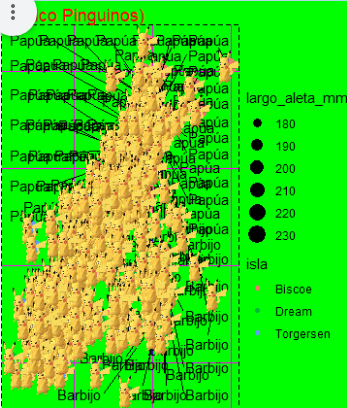
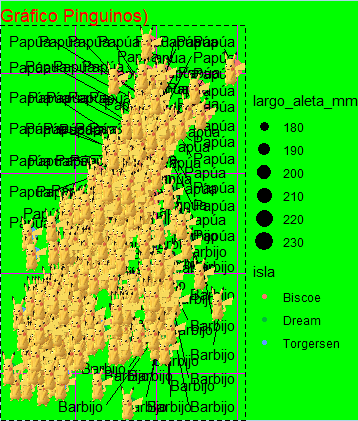
Update HTML and pics

diff --git a/docs/cohorte2021.html b/docs/cohorte2021.html
@@ -283,8 +283,8 @@ $(document).ready(function () {
 <div id="trabajos-finales" class="section level2">
 <h2>Trabajos finales</h2>
 <p>Trabajos finales utilizando Tableau o RMarkdown y ggplot2.</p>
-<div id="htmlwidget-bce8061ad18ca198f4e7" style="width:100%;height:auto;" class="datatables html-widget"></div>
-<script type="application/json" data-for="htmlwidget-bce8061ad18ca198f4e7">{"x":{"filter":"none","data":[["1","2","3","4","5","6","7","8","9","10","11","12","13","14"],["Empleo y Género (Banco Mundial)","Encuesta Permanente de Hogares","Encuesta Permanente de Hogares","Encuesta Nacional de Hogares","Exportaciones certificadas de soja SENASA","Programa Punto Digital","Monitor de vacunación COVID-19 en la ciudad de Corrientes","COVID-19 en CABA","COVID-19 - Chubut","Estimaciones Agrícolas del Ministerio de agricultura, ganadería y pesca","Ecobicis Buenos Aires","Hablemos de Todo","Contratos de alquiler del estado","Vinos"],["<a href=https://data-viz-r.netlify.app/>https://data-viz-r.netlify.app/<\/a>","<a href=https://ephybrechas.netlify.app/>https://ephybrechas.netlify.app/<\/a>","<a href=https://ingresos-genero-desigualdades.netlify.app/>https://ingresos-genero-desigualdades.netlify.app/<\/a>","<a href=https://trabajovisualizacion.netlify.app/>https://trabajovisualizacion.netlify.app/<\/a>","<a href=https://vibrant-wozniak-6e07cd.netlify.app/>https://vibrant-wozniak-6e07cd.netlify.app/<\/a>","<a href=https://public.tableau.com/app/profile/ana.clara.suiffet/viz/ResumenPuntosDigitales/ResumenPuntosDigitales?publish=yes>https://public.tableau.com/app/profile/ana.clara.suiffet/viz/ResumenPuntosDigitales/ResumenPuntosDigitales?publish=yes<\/a>","<a href=https://public.tableau.com/views/Trabajopracticofinalvisualizacion/MonitordevacunacinporCovid-19enlaCiudaddeCorrientes?:language=en-US&publish=yes&:display_count=n&:origin=viz_share_link>https://public.tableau.com/views/Trabajopracticofinalvisualizacion/MonitordevacunacinporCovid-19enlaCiudaddeCorrientes?:language=en-US&publish=yes&:display_count=n&:origin=viz_share_link<\/a>","<a href=https://tp-visualizacion-lindenboim-lucena.netlify.app/>https://tp-visualizacion-lindenboim-lucena.netlify.app/<\/a>","<a href=https://diplounab-chubut.netlify.app/>https://diplounab-chubut.netlify.app/<\/a>","<a href=https://agitated-easley-c144bb.netlify.app/>https://agitated-easley-c144bb.netlify.app/<\/a>","<a href=https://ecobicibuenosaires.netlify.app/>https://ecobicibuenosaires.netlify.app/<\/a>","<a href=https://public.tableau.com/app/profile/nicolas7443/viz/HDTNicolsNatali/Dashboard1?publish=yes>https://public.tableau.com/app/profile/nicolas7443/viz/HDTNicolsNatali/Dashboard1?publish=yes<\/a>","<a href=https://public.tableau.com/views/TPFINALVISUALIZACIONES/VISUALIZACIONES?:language=es-ES&publish=yes&:display_count=n&:origin=viz_share_link>https://public.tableau.com/views/TPFINALVISUALIZACIONES/VISUALIZACIONES?:language=es-ES&publish=yes&:display_count=n&:origin=viz_share_link<\/a>","<a href=https://public.tableau.com/app/profile/edgardosandoval/viz/VinosSand/Dashboard1>https://public.tableau.com/app/profile/edgardosandoval/viz/VinosSand/Dashboard1<\/a>"],["Couto, Aramburu, Araujo","Juan Videla y Juan Pablo Costa","Nicole Moscovich","Marcela Almeida","Alexander Sothmann,Luciano Tincani, Sara Reidel, Pamela Sarco","Ana Clara Suiffet","Bianca Vallejos\n","Erika D. Lucena, Irene L. Lindenboim","Federico Santoro","Yanil Hepp","Marcelo Perazzo - Paula D’Alessandro","Nicolás Natali","Noelia Andrada","Edgardo Sandoval"]],"container":"<table class=\"display\">\n  <thead>\n    <tr>\n      <th> <\/th>\n      <th>Base de datos seleccionada<\/th>\n      <th>Link al trabajo final<\/th>\n      <th>Autores/as<\/th>\n    <\/tr>\n  <\/thead>\n<\/table>","options":{"order":[],"autoWidth":false,"orderClasses":false,"columnDefs":[{"orderable":false,"targets":0}]}},"evals":[],"jsHooks":[]}</script>
+<div id="htmlwidget-3c5a63f00464b9a23172" style="width:100%;height:auto;" class="datatables html-widget"></div>
+<script type="application/json" data-for="htmlwidget-3c5a63f00464b9a23172">{"x":{"filter":"none","data":[["1","2","3","4","5","6","7","8","9","10","11","12","13","14"],["Empleo y Género (Banco Mundial)","Encuesta Permanente de Hogares","Encuesta Permanente de Hogares","Encuesta Nacional de Hogares","Exportaciones certificadas de soja SENASA","Programa Punto Digital","Monitor de vacunación COVID-19 en la ciudad de Corrientes","COVID-19 en CABA","COVID-19 - Chubut","Estimaciones Agrícolas del Ministerio de agricultura, ganadería y pesca","Ecobicis Buenos Aires","Hablemos de Todo","Contratos de alquiler del estado","Vinos"],["<a href=https://data-viz-r.netlify.app/>https://data-viz-r.netlify.app/<\/a>","<a href=https://ephybrechas.netlify.app/>https://ephybrechas.netlify.app/<\/a>","<a href=https://ingresos-genero-desigualdades.netlify.app/>https://ingresos-genero-desigualdades.netlify.app/<\/a>","<a href=https://trabajovisualizacion.netlify.app/>https://trabajovisualizacion.netlify.app/<\/a>","<a href=https://vibrant-wozniak-6e07cd.netlify.app/>https://vibrant-wozniak-6e07cd.netlify.app/<\/a>","<a href=https://public.tableau.com/app/profile/ana.clara.suiffet/viz/ResumenPuntosDigitales/ResumenPuntosDigitales?publish=yes>https://public.tableau.com/app/profile/ana.clara.suiffet/viz/ResumenPuntosDigitales/ResumenPuntosDigitales?publish=yes<\/a>","<a href=https://public.tableau.com/views/Trabajopracticofinalvisualizacion/MonitordevacunacinporCovid-19enlaCiudaddeCorrientes?:language=en-US&publish=yes&:display_count=n&:origin=viz_share_link>https://public.tableau.com/views/Trabajopracticofinalvisualizacion/MonitordevacunacinporCovid-19enlaCiudaddeCorrientes?:language=en-US&publish=yes&:display_count=n&:origin=viz_share_link<\/a>","<a href=https://tp-visualizacion-lindenboim-lucena.netlify.app/>https://tp-visualizacion-lindenboim-lucena.netlify.app/<\/a>","<a href=https://diplounab-chubut.netlify.app/>https://diplounab-chubut.netlify.app/<\/a>","<a href=https://agitated-easley-c144bb.netlify.app/>https://agitated-easley-c144bb.netlify.app/<\/a>","<a href=https://ecobicibuenosaires.netlify.app/>https://ecobicibuenosaires.netlify.app/<\/a>","<a href=https://public.tableau.com/app/profile/nicolas7443/viz/HDTNicolsNatali/Dashboard1?publish=yes>https://public.tableau.com/app/profile/nicolas7443/viz/HDTNicolsNatali/Dashboard1?publish=yes<\/a>","<a href=https://public.tableau.com/views/TPFINALVISUALIZACIONES/VISUALIZACIONES?:language=es-ES&publish=yes&:display_count=n&:origin=viz_share_link>https://public.tableau.com/views/TPFINALVISUALIZACIONES/VISUALIZACIONES?:language=es-ES&publish=yes&:display_count=n&:origin=viz_share_link<\/a>","<a href=https://public.tableau.com/app/profile/edgardosandoval/viz/VinosSand/Dashboard1>https://public.tableau.com/app/profile/edgardosandoval/viz/VinosSand/Dashboard1<\/a>"],["Couto, Aramburu, Araujo","Juan Videla y Juan Pablo Costa","Nicole Moscovich","Marcela Almeida","Alexander Sothmann,Luciano Tincani, Sara Reidel, Pamela Sarco","Ana Clara Suiffet","Bianca Vallejos\n","Erika D. Lucena, Irene L. Lindenboim","Federico Santoro","Yanil Hepp","Marcelo Perazzo - Paula D’Alessandro","Nicolás Natali","Noelia Andrada","Edgardo Sandoval"]],"container":"<table class=\"display\">\n  <thead>\n    <tr>\n      <th> <\/th>\n      <th>Base de datos seleccionada<\/th>\n      <th>Link al trabajo final<\/th>\n      <th>Autores/as<\/th>\n    <\/tr>\n  <\/thead>\n<\/table>","options":{"order":[],"autoWidth":false,"orderClasses":false,"columnDefs":[{"orderable":false,"targets":0}]}},"evals":[],"jsHooks":[]}</script>
 </div>
 <div id="concurso-el-gráfico-más-feo-por-orden-alfabético" class="section level2">
 <h2>Concurso el gráfico más feo (por orden alfabético)</h2>
@@ -760,37 +760,272 @@ ggplot(df, aes(x = &quot;&quot;, y = Formacion, fill = Proporcion)) +
 <p><img src="plots_2021/Manuel_Emilio_Lopez_plot2.png" /></p>
 </div>
 </div>
-<div id="mercedes-araujo" class="section level3">
-<h3>Mercedes Araujo</h3>
-<p><img src="plots_2021/Mercedes_Araujo_plot.png" /></p>
-</div>
 <div id="marcela-almeida" class="section level3">
 <h3>Marcela Almeida</h3>
-<p><img src="plots_2021/Luciano_Pamela_plot.png" /></p>
+<pre class="r"><code>Gastos__quintil_uno &lt;- base_hogares %&gt;%
+  filter(qinth_t==1)%&gt;%
+    select(gc_01,gc_02, gc_03, gc_04, gc_05, gc_06, gc_07, gc_08, gc_09, gc_10, gc_11, gc_12,pondera, qinth_t)%&gt;%
+  summarise(Alimentos=round( sum(gc_01*pondera)/sum(pondera),1),Tabaco= round( sum(gc_02*pondera)/sum(pondera),1),Ropa=round( sum(gc_03*pondera)/sum(pondera),1),Vivienda=round(sum(gc_04*pondera)/sum(pondera),1), Equipamiento=round(sum(gc_05*pondera)/sum(pondera),1), Salud=round( sum(gc_06*pondera)/sum(pondera),1), Transporte=round( sum(gc_07*pondera)/sum(pondera),1), Comunicacion=round( sum(gc_08*pondera)/sum(pondera),1), Recreacion=round( sum(gc_09*pondera)/sum(pondera),1), Educacion=round( sum(gc_10*pondera)/sum(pondera),1), Restaurantes=round( sum(gc_11*pondera)/sum(pondera),1), Otros=round( sum(gc_12*pondera)/sum(pondera),1))%&gt;%
+  pivot_longer(cols=c(Alimentos, Tabaco,Ropa, Vivienda, Equipamiento, Salud, Transporte, Comunicacion, Recreacion, Educacion, Restaurantes, Otros ),names_to=&quot;Gasto&quot;, values_to=&quot;valor&quot;)
+
+
+
+Gastos_quintil_uno&lt;-Gastos__quintil_uno%&gt;%
+  mutate(porcentaje=(valor/11322.9)*100)
+
+Gastos_quintil_uno
+
+torta_fea&lt;-ggplot(data=Gastos_quintil_uno, aes(x=&quot;&quot;, y=valor, fill=Gasto))+
+  geom_bar(stat=&quot;identity&quot;)+
+    labs(title=&quot;Estructura de gasto Quintil 1&quot;, caption=&quot;Siempre puede ser más feo&quot;)+
+  geom_text(aes(label=paste0(round(porcentaje,1),&quot;%&quot;)),
+            position=position_stack(vjust=0.5))+
+  coord_polar(&quot;y&quot;)+
+    theme_void()
+  
+torta_fea</code></pre>
+<p><img src="plots_2021/Marcela_Almeida_plot.png" /></p>
+<div id="gráfico-extra-1" class="section level4">
+<h4>Gráfico extra</h4>
+<pre class="r"><code># Siempre puede ser más feo... pero no es ggplot
+
+pie3D(Gastos_quintil_uno$porcentaje)</code></pre>
+<p><img src="plots_2021/Marcela_Almeida_plot2.png" /></p>
+</div>
 </div>
 <div id="marcelo-perazzo" class="section level3">
 <h3>Marcelo Perazzo</h3>
+<pre class="r"><code>library(ggplot2)
+library(tidyverse)
+library(dplyr)
+remotes::install_github(&quot;cienciadedatos/datos&quot;)
+pinguinos=datos::pinguinos
+
+pinguinos %&gt;%
+    remove_missing() %&gt;%
+    ggplot(aes(x = especie, y = masa_corporal_g
+          )) +
+    geom_boxplot(fill=&quot;#FF00FF&quot;, color=&quot;#FF00FF&quot;) +
+  
+  geom_jitter(fill=&quot;#33FF41&quot;,color=&quot;#33FF41&quot;) +
+   
+  
+  theme_classic()+
+  theme(panel.grid.major = element_line(color = &quot;#FF00FF&quot;,linetype=&quot;dotted&quot;,size = 2),
+        plot.title = element_text(face = &quot;bold.italic&quot;, size = 16,color = &quot;#33FF41&quot;,hjust = 1,angle = -180),
+        plot.subtitle = element_text(face = &quot;bold&quot;, size = 14,color = &quot;#20E7DA&quot;,hjust = 1,angle = -180),
+        
+        axis.text = element_text(color = &quot;#33FF41&quot;, angle = -180),
+        axis.title.x = element_text(color =&quot;#20E7DA&quot;,angle = 50 ),
+        axis.title.y = element_text(color =&quot;#33FF41&quot;,size = 7,angle = -70 ),
+        plot.background = element_rect(fill=&quot;orange&quot;,color =  &quot;#7E20E7&quot;, size = 4,linetype = &quot;twodash&quot;),
+        
+    
+  )+
+    
+     labs(x = &quot;Especies&quot;, 
+           y = &quot;Masa Corporal (en g)&quot;,
+          title = &quot;El Gráfico más feo&quot;,tag = &quot;MP&quot;, 
+          subtitle = &quot;Por lo menos lo intentamos!!&quot;,
+          caption = &quot;Fuente: paquete Datos, dataset pinguinos&quot;
+          )</code></pre>
 <p><img src="plots_2021/marcelo_pelazzo_plot.png" /></p>
-</div>
-<div id="martina-pesce" class="section level3">
-<h3>Martina Pesce</h3>
-<p><img src="plots_2021/Martina_Pesce_plot.png" /></p>
 </div>
 <div id="martin-saralegui" class="section level3">
 <h3>Martin Saralegui</h3>
-<p><img src="plots_2021/Martin_Saralegui_plot.png" /></p>
+<pre class="r"><code>library(datos)
+library(ggplot2)
+library(dplyr)
+library(tidyverse)
+
+pinguinos &lt;- datos::pinguinos
+
+ggplot(pinguinos, aes(largo_pico_mm, largo_aleta_mm))+
+  geom_point(aes (color= especie, size = masa_corporal_g))+
+  geom_text(aes(label = sexo, size= 1))+
+  geom_smooth(method = &quot;loess&quot;, aes(color= especie))+
+  annotate(&#39;text&#39;, x = 45, y = 200, label = &quot;Diome&quot;, fontface = &quot;bold&quot;, size = 10)+
+  geom_curve(aes(x= 45, y= 200, xend= 50, yend = 220),
+             arrow = arrow(angle = 30, length = unit(0.25,&quot;inch&quot;),
+                           ends=&quot;first&quot;, 
+                           type= &quot;closed&quot;),
+             size = 1,
+             color = &quot;yellow&quot;,
+             curvature = 0.2)+
+  geom_segment(aes(x= 45, y= 200, xend= 40, yend = 175),
+             arrow = arrow(angle = 30, length = unit(0.25,&quot;inch&quot;),
+                           ends=&quot;first&quot;, 
+                           type= &quot;closed&quot;),
+             size = 1,
+             color = &quot;darkred&quot;,
+             curvature = 0.2)+
+  geom_density_2d(aes(color= especie), size = 1)</code></pre>
+<p><img src="plots_2021/Martin_Saralegui_plot.jpg" /></p>
+</div>
+<div id="martina-pesce" class="section level3">
+<h3>Martina Pesce</h3>
+<pre class="r"><code>library(tidyverse)
+library(here)
+library(ggimage)
+library(ggplot2)
+library(ggrepel)
+pinguinos&lt;-datos::pinguinos
+
+ggplot(pinguinos, aes(largo_pico_mm, masa_corporal_g)) + 
+  geom_point(aes(colour = isla, size = largo_aleta_mm)) +
+  geom_text_repel(aes(label=ifelse((masa_corporal_g &gt;= 5000 |largo_pico_mm&gt; 50), as.character(especie),&#39;&#39;)), min.segment.length = 0, seed = 42, box.padding = 0.5)+
+  theme(legend.position = &quot;none&quot;)+
+  theme_void()+
+  theme(plot.background = element_rect(fill = &quot;green&quot;, colour = &quot;lightblue&quot;))+
+  theme(panel.border = element_rect(linetype = &quot;dashed&quot;, fill = &quot;NA&quot;))+
+  theme(panel.grid.major = element_line(colour = &quot;magenta&quot;))+
+  theme(plot.title = element_text(color = &quot;red&quot;))+
+  labs(title=&quot;Gráfico Pinguinos)&quot;,
+        x =&quot;largo del pico en mm&quot;, y = &quot;masa corporal g&quot;)+
+geom_pokemon(aes(image= &#39;pikachu&#39;), size=.1)</code></pre>
+<p><img src="plots_2021/Martina_Pesce_plot.png" /></p>
+</div>
+<div id="mercedes-araujo" class="section level3">
+<h3>Mercedes Araujo</h3>
+<pre class="r"><code># Base de datos de alquileres.
+
+unique(datos_alquileres$operation_type)
+Datos&lt;-datos_alquileres %&gt;%
+  filter(operation_type == &quot;Alquiler&quot; ) %&gt;% 
+  filter(l2 == &quot;Capital Federal&quot;) %&gt;% 
+  filter(price &lt; 100000 ) %&gt;% 
+  filter(surface_total &lt; 15000 ) %&gt;% 
+  filter(surface_covered &lt; 2000 ) %&gt;% 
+  filter(start_date &gt;= &quot;2020-01-01&quot; ) %&gt;% 
+  filter(property_type==&quot;Casa&quot; | property_type==&quot;PH&quot; | property_type==&quot;Departamento&quot;)
+
+
+ggplot(data = Datos) +
+ geom_point(aes(x = surface_covered, y = price),
+ alpha = .6, color=&quot;green&quot;, size=8) +
+ labs(x=&quot;Superficie cubierta&quot;, y = &quot;Precio&quot;) +
+ geom_abline(aes(intercept = 9423.48,
+ slope = 245.24), color = &quot;pink&quot;) +
+   facet_wrap(~property_type, scales=&quot;free_y&quot;)+
+  theme_dark()</code></pre>
+<p><img src="plots_2021/Mercedes_Araujo_plot.png" /></p>
+</div>
+<div id="mercedes-laurenza" class="section level3">
+<h3>Mercedes Laurenza</h3>
+<pre class="r"><code>library(dplyr)
+library(ggplot2)
+
+feo &lt;- final_internados %&gt;% 
+  group_by(region) %&gt;% 
+  summarise(total = n())
+
+inmundus_palette &lt;- c(&quot;yellow&quot;, &quot;#8e4f89&quot;, &quot;#4269a5&quot;,&quot;#39825a&quot;, &quot;#dc6141&quot;, &quot;#0078d7&quot; )
+  
+feo &lt;- feo %&gt;% 
+  filter(!is.na(region)) %&gt;% 
+  ggplot(aes(x=region, y=total, fill= as.factor(total))) + 
+  scale_fill_manual(values = inmundus_palette )+
+    geom_bar(width = 1 ,stat=&quot;identity&quot;)+
+  labs(fill= &quot;Internados total&quot;, title= &quot;Total de internados por región por COVID 19&quot;, subtitle=&quot;Rep. Argentina, marzo 2020- mayo 2021&quot;, caption = &quot;Fuente: datos abiertos Ministerio de Salud de la Nación; N= 112097&quot;)+
+    guides(fill =  guide_legend(reverse = TRUE))
+   
+  feo + coord_polar() + 
+theme(axis.text.x=element_text(size = 15,angle = 80, colour = &quot;red&quot;, face= &quot;bold&quot;))+
+                theme(title=element_text(size=15,face=&quot;bold&quot;))
+
+ggsave(&#39;feo.png&#39;, width = 16, height = 9, dpi = 100)</code></pre>
+<p><img src="plots_2021/Mercedes_Laurenza_plot.png" /></p>
+</div>
+<div id="nicolas-capria" class="section level3">
+<h3>Nicolas Capria</h3>
+<pre class="r"><code>library(tidyverse)
+library(eph)
+
+base &lt;- get_microdata(year = 2021, trimester = 1, type = &quot;individual&quot;, vars = c(&#39;P21&#39;, &#39;ESTADO&#39;, &#39;CAT_OCUP&#39;, &#39;CH04&#39;, &#39;CH06&#39;, &#39;CH07&#39;, &#39;CH08&#39;, &#39;PP04B_COD&#39;, &#39;PP04D_COD&#39;, &#39;PONDERA&#39;,&#39;ANO4&#39;,&#39;PONDIIO&#39;)) 
+
+base_trabajo &lt;- base %&gt;% 
+  organize_labels()
+
+base_trabajo &lt;- base_trabajo %&gt;% 
+  organize_cno()
+
+base_trabajo &lt;- base_trabajo %&gt;% 
+  organize_caes()
+
+
+base_trabajo &lt;- base_trabajo %&gt;% 
+ rename(Genero = CH04, rama_de_actividad = caes_eph_label) %&gt;% 
+ mutate(Genero = case_when(Genero==&quot;1&quot; ~ &quot;Varones&quot;,
+                         Genero==&quot;2&quot; ~ &quot;Mujeres&quot;))
+
+formato_porc &lt;- function(numero, dec = 1){
+  format(round(numero, digits = dec), nsmall = dec, decimal.mark = &quot;,&quot;,)
+}
+formato_pesos &lt;- function(numero, dec = 2){
+  paste0(&quot;$&quot;, format(round(numero, digits = dec), nsmall = dec, big.mark = &quot;.&quot;, decimal.mark = &quot;,&quot;))
+}
+formato_cantidad &lt;- function(numero, dec = 0){
+  format(round(numero, digits = dec), nsmall = dec, big.mark = &quot;.&quot;, decimal.mark = &quot;,&quot;)
+}
+
+Tabla.6 &lt;- base_trabajo %&gt;%
+  filter(!is.na(rama_de_actividad)) %&gt;% 
+  group_by(rama_de_actividad, Genero) %&gt;% 
+  summarise(Percentage=n()) %&gt;% 
+  group_by(rama_de_actividad) %&gt;% 
+  mutate(Percentage=Percentage/sum(Percentage)*100)%&gt;%
+  mutate_if(is.numeric, round) %&gt;%  
+  filter(Genero == &quot;Mujeres&quot;) 
+
+Tabla.9&lt;-  base_trabajo %&gt;% 
+  filter(ESTADO == 1) %&gt;% 
+  group_by(rama_de_actividad, Genero) %&gt;% 
+  summarise(ing_prom_rama = weighted.mean(P21, PONDIIO)) %&gt;% 
+  pivot_wider(id_cols = 1, names_from = Genero, values_from = ing_prom_rama) %&gt;%
+  mutate(brecha_por_rama = (Varones-Mujeres)/Varones *100) %&gt;% 
+  arrange(brecha_por_rama)
+
+Tabla.10 &lt;- Tabla.6 %&gt;%  
+  left_join(Tabla.9, &quot;rama_de_actividad&quot;) 
+
+Tabla.11 &lt;- Tabla.10 %&gt;% 
+  mutate(rama_de_actividad = case_when(rama_de_actividad == &quot;Transporte, almacenamiento y comunicaciones&quot; ~ &quot;Transporte&quot;, 
+                                       rama_de_actividad == &quot;Servicios financieros, de alquiler y empresariales&quot;  ~ &quot;Servicios financieros&quot;,
+                                      rama_de_actividad ==&quot;Administracion publica, defensa y seguridad social&quot;  ~ &quot;Sector público&quot;, 
+                                      rama_de_actividad == &quot;Otros servicios comunitarios, sociales y personales&quot; ~ &quot;Otros servicios com.&quot;,
+                                      rama_de_actividad == &quot;Actividades no bien especificadas&quot; ~ &quot;Act. no especificadas&quot;, TRUE ~ as.character(rama_de_actividad)))
+        
+Tabla.11&lt;- Tabla.11 %&gt;% 
+  rename(Sector = rama_de_actividad)
+
+ggplot(data = Tabla.11) + 
+  (aes(Percentage,  Mujeres)) +
+  geom_point(aes(color = Sector)) + geom_smooth (method=&quot;lm&quot;, col = &quot;2&quot;) + geom_text(aes(label= Sector), size=3, alpha = 0.8 )+ scale_color_viridis_d(option = &quot;A&quot;) +
+  labs(title = &quot;Tasa de Feminidad vs Ingreso medio de las mujeres por sector&quot;,
+     subtitle = &quot;31 Aglomerados urbanos EPH - 3er Trimestre 2020&quot;,
+     caption = &quot;Fuente: Elaboración propia en base a EPH-INDEC&quot;,
+     x = &quot;Tasa de Feminidad&quot;,
+     y = &quot;Ingreso Medio de las Mujeres &quot;) +
+  theme_bw(12)+
+  theme(legend.title = element_text(color = &quot;blue&quot;, face = &quot;bold&quot;),
+    legend.text = element_text(family= &quot;Trebuchet MS&quot;, color = &quot;yellow&quot;, face = &quot;bold&quot;),
+    panel.background = element_rect(fill=&quot;yellow&quot;),
+    panel.border = element_rect(size = 10, color = &quot;darkorange&quot;),
+    legend.background = element_rect(fill = &quot;black&quot;),
+    legend.box.background = element_rect(size = 3, color = &quot;darkorange&quot;),
+    plot.background=element_rect(fill=&quot;olivedrab&quot;, color=&quot;cyan&quot;, size = 6),
+    panel.grid = element_line(linetype = 1, size = 3, color = &quot;purple&quot;),
+    plot.title=element_text(color=&quot;white&quot;, size =15, family = &quot;sans&quot;, face = &quot;bold&quot;),
+    plot.subtitle=element_text(color=&quot;red&quot;, size =12, family = &quot;serif&quot;, face = &quot;italic&quot;),
+    plot.caption =  element_text(color=&quot;darkorange&quot;, size =12, family = &quot;mono&quot;, face = &quot;italic&quot;),
+    axis.text.x= element_text( family= &quot;serif&quot;, color = &quot;brown&quot;, angle= 125, hjust= 1),
+    axis.text.y= element_text( family= &quot;sans&quot;, color = &quot;cyan3&quot;, angle= 20, hjust= 1)
+      )</code></pre>
+<p><img src="plots_2021/Nicolas_Capria_plot.png" /></p>
 </div>
 <div id="marcela-almeida-1" class="section level3">
 <h3>Marcela Almeida</h3>
 <p><img src="plots_2021/Marcela_Almeida_plot.png" /></p>
-</div>
-<div id="mercedes-laurenza" class="section level3">
-<h3>Mercedes Laurenza</h3>
-<p><img src="plots_2021/Mercedes_Laurenza_plot" /></p>
-</div>
-<div id="nicolas-capria" class="section level3">
-<h3>Nicolas Capria</h3>
-<p><img src="plots_2021/Nicolas_Capria_plot.png" /></p>
 </div>
 <div id="nicolas-natali" class="section level3">
 <h3>Nicolas Natali</h3>
